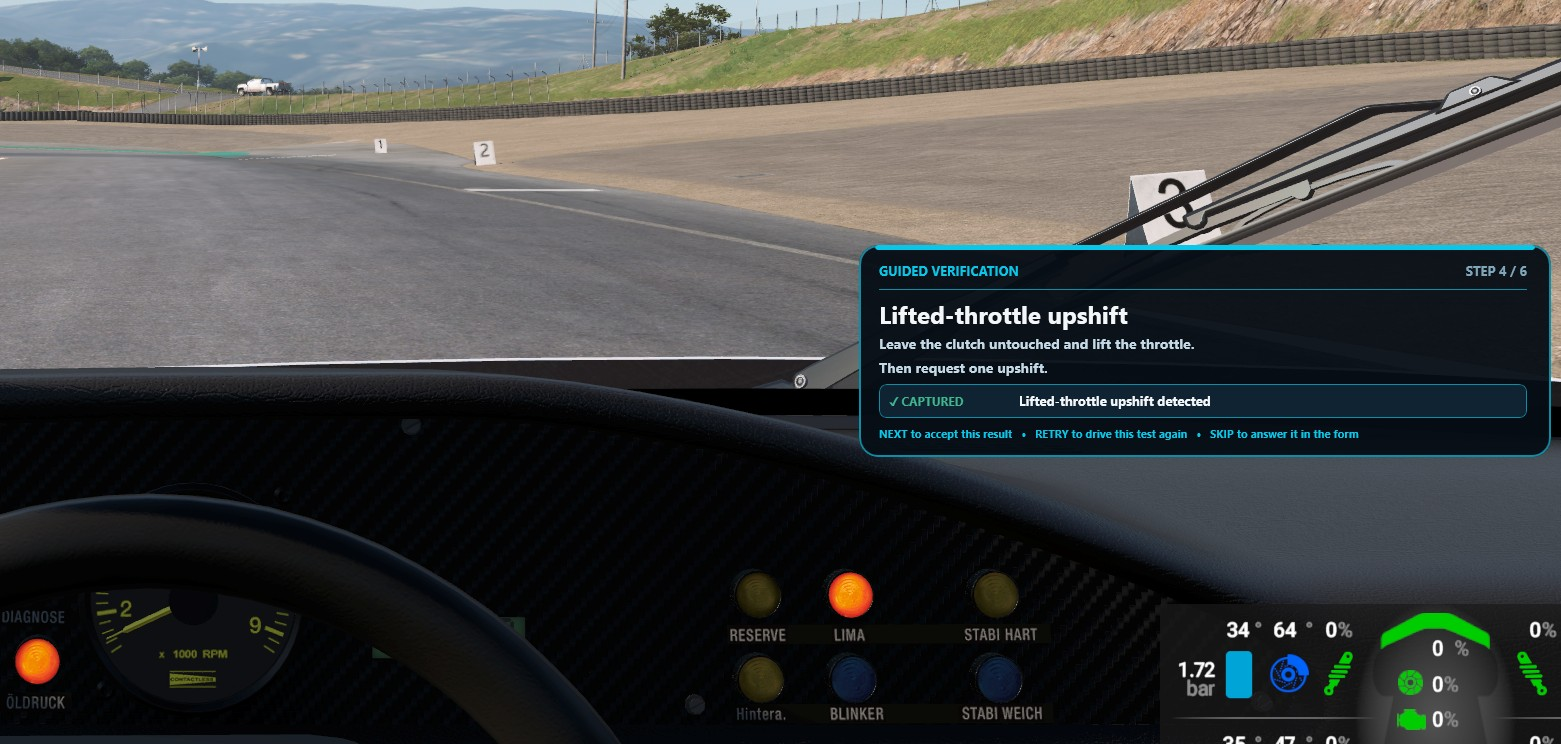
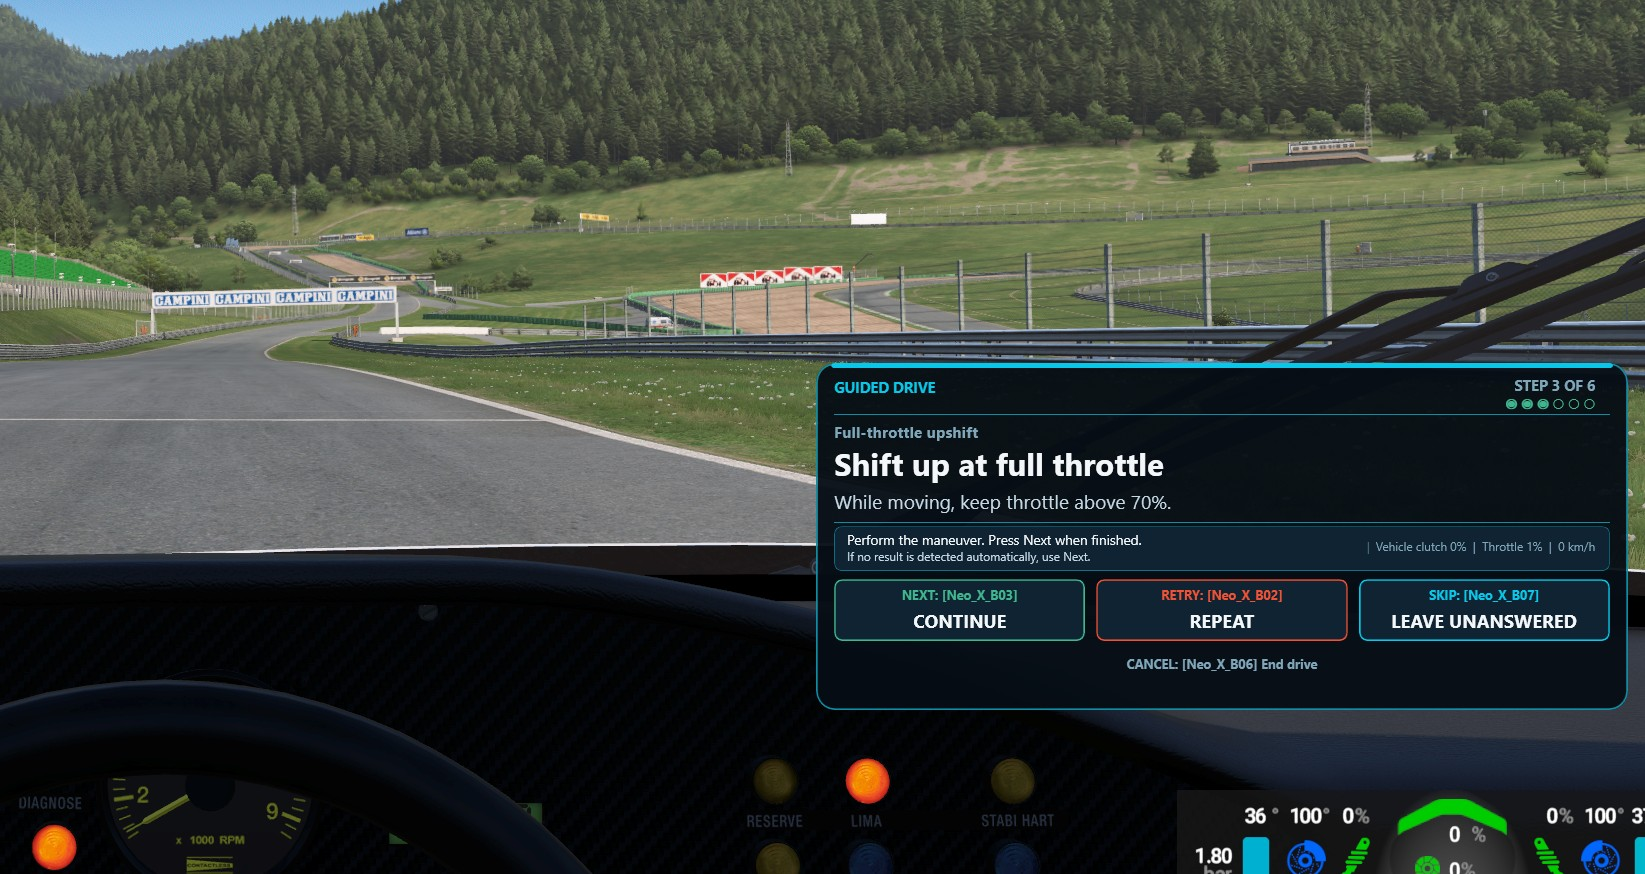
Refresh repository overview and screenshots for 0.21.3

diff --git a/README.md b/README.md
@@ -14,6 +14,22 @@ and simulator-independent; the plugin is one client that reads it.
 [contribute a simulator observation](https://github.com/Milky28/as-driven/issues/new?template=simulator-observation.yml),
 or [improve an existing car's research](https://github.com/Milky28/as-driven/issues/new?template=existing-car-research.yml).
 
+## What's new in 0.21.3
+
+- **Clearer guided drives.** A narrower overlay gives prompts and longer status
+  messages more room, shows your progress, and keeps the continue, retry, skip,
+  and cancel button labels visible.
+- **Open a car's public controls page from SimHub.** Select a car in the car
+  browser and choose **Open public car page**.
+- **Easier online browsing.** The public catalog has clearer simulator filters,
+  keyboard navigation, and improved layouts on smaller screens.
+- **More Project Motor Racing coverage.** New reviewed entries cover the
+  Chaparral 2F, Zakspeed Capri, and Porsche 911 Carrera 2 Cup (964).
+
+This release includes dataset 0.5.49 with 285 reviewed car records across eight
+simulators, plus reliability improvements. See the
+[release notes](https://github.com/Milky28/as-driven/releases/tag/v0.21.3).
+
 ## What it tells you
 
 <img src="docs/images/preflight-card.png" width="720" alt="As Driven pre-flight card for the Audi V8 quattro DTM">
@@ -58,13 +74,17 @@ Each field is drawn from a fixed vocabulary:
 
 ## In the plugin
 
-The Garage tab mirrors the live car and previews the popup, with the size, theme
-and duration it will use:
+The Garage tab mirrors the live car and previews the popup. Choose its size,
+theme, and duration, then save your changes. Themes can follow the car's era or
+use your chosen style:
 
 <img src="docs/images/settings-garage.png" width="900" alt="The plugin's Garage tab">
 
 The car browser reads the whole curated database offline, without starting a
-simulator, and filters by simulator, era, wheel, or shifter:
+simulator, and filters by simulator, era, wheel, or shifter. Save your hardware
+to compare it with a car's guidance, revisit Favorites and Recent cars, or open
+the selected car's public controls page. Browsing leaves the live car and popup
+alone until you choose **Show selected overlay**:
 
 <img src="docs/images/settings-browser.png" width="900" alt="The plugin's car browser">
 
@@ -85,9 +105,10 @@ Full details, checksum verification, rollback, and removal are in
 [docs/install.md](docs/install.md).
 
 The plugin works offline. It has no analytics, no account, and no background
-update check. Its one network feature is a "Check for updates" button that
-contacts nothing until you press it, and downloads nothing when you do. See
-[PRIVACY.md](PRIVACY.md).
+update check. **Check for updates** contacts the update service only when you
+press it and does not download or install packages. Opening a public car page
+or contribution form launches your browser; contribution drafts stay local
+until you choose to share them. See [PRIVACY.md](PRIVACY.md).
 
 ## What it covers
 
@@ -107,7 +128,8 @@ Dataset 0.5.49 contains 285 reviewed car records.
 <!-- release-facts:end -->
 
 Coverage is deepest in Automobilista 2, which is where the work started. The
-other simulators carry reviewed entries rather than complete rosters.
+other simulators carry reviewed entries rather than complete rosters. A car can
+be reviewed in more than one simulator, so the simulator counts overlap.
 
 Matching is exact and case-sensitive. A car the database has not reviewed is
 reported as unmatched rather than given a guess, because a confident wrong
@@ -157,7 +179,13 @@ drive that produces a structured draft - **Contribute a simulator observation**
 in the plugin's settings. It prompts one test at a time in the car and records
 what the simulator actually did:
 
-<img src="docs/images/guided-drive.jpg" width="900" alt="The guided verification overlay prompting a lifted-throttle upshift">
+<img src="docs/images/guided-drive.jpg" width="900" alt="The guided-drive overlay prompting a full-throttle upshift, with progress markers and persistent control labels">
+
+The overlay shows your current step and mapped buttons for continuing, retrying,
+skipping, or ending the drive. The workflow supports Project Motor Racing and
+GTR2 alongside the other registered simulators. You can also
+[propose a correction to an existing car](https://github.com/Milky28/as-driven/issues/new?template=existing-car-research.yml)
+without recording another drive.
 
 Nothing is uploaded automatically; the draft stays on your PC until you choose to
 attach it to a submission.
